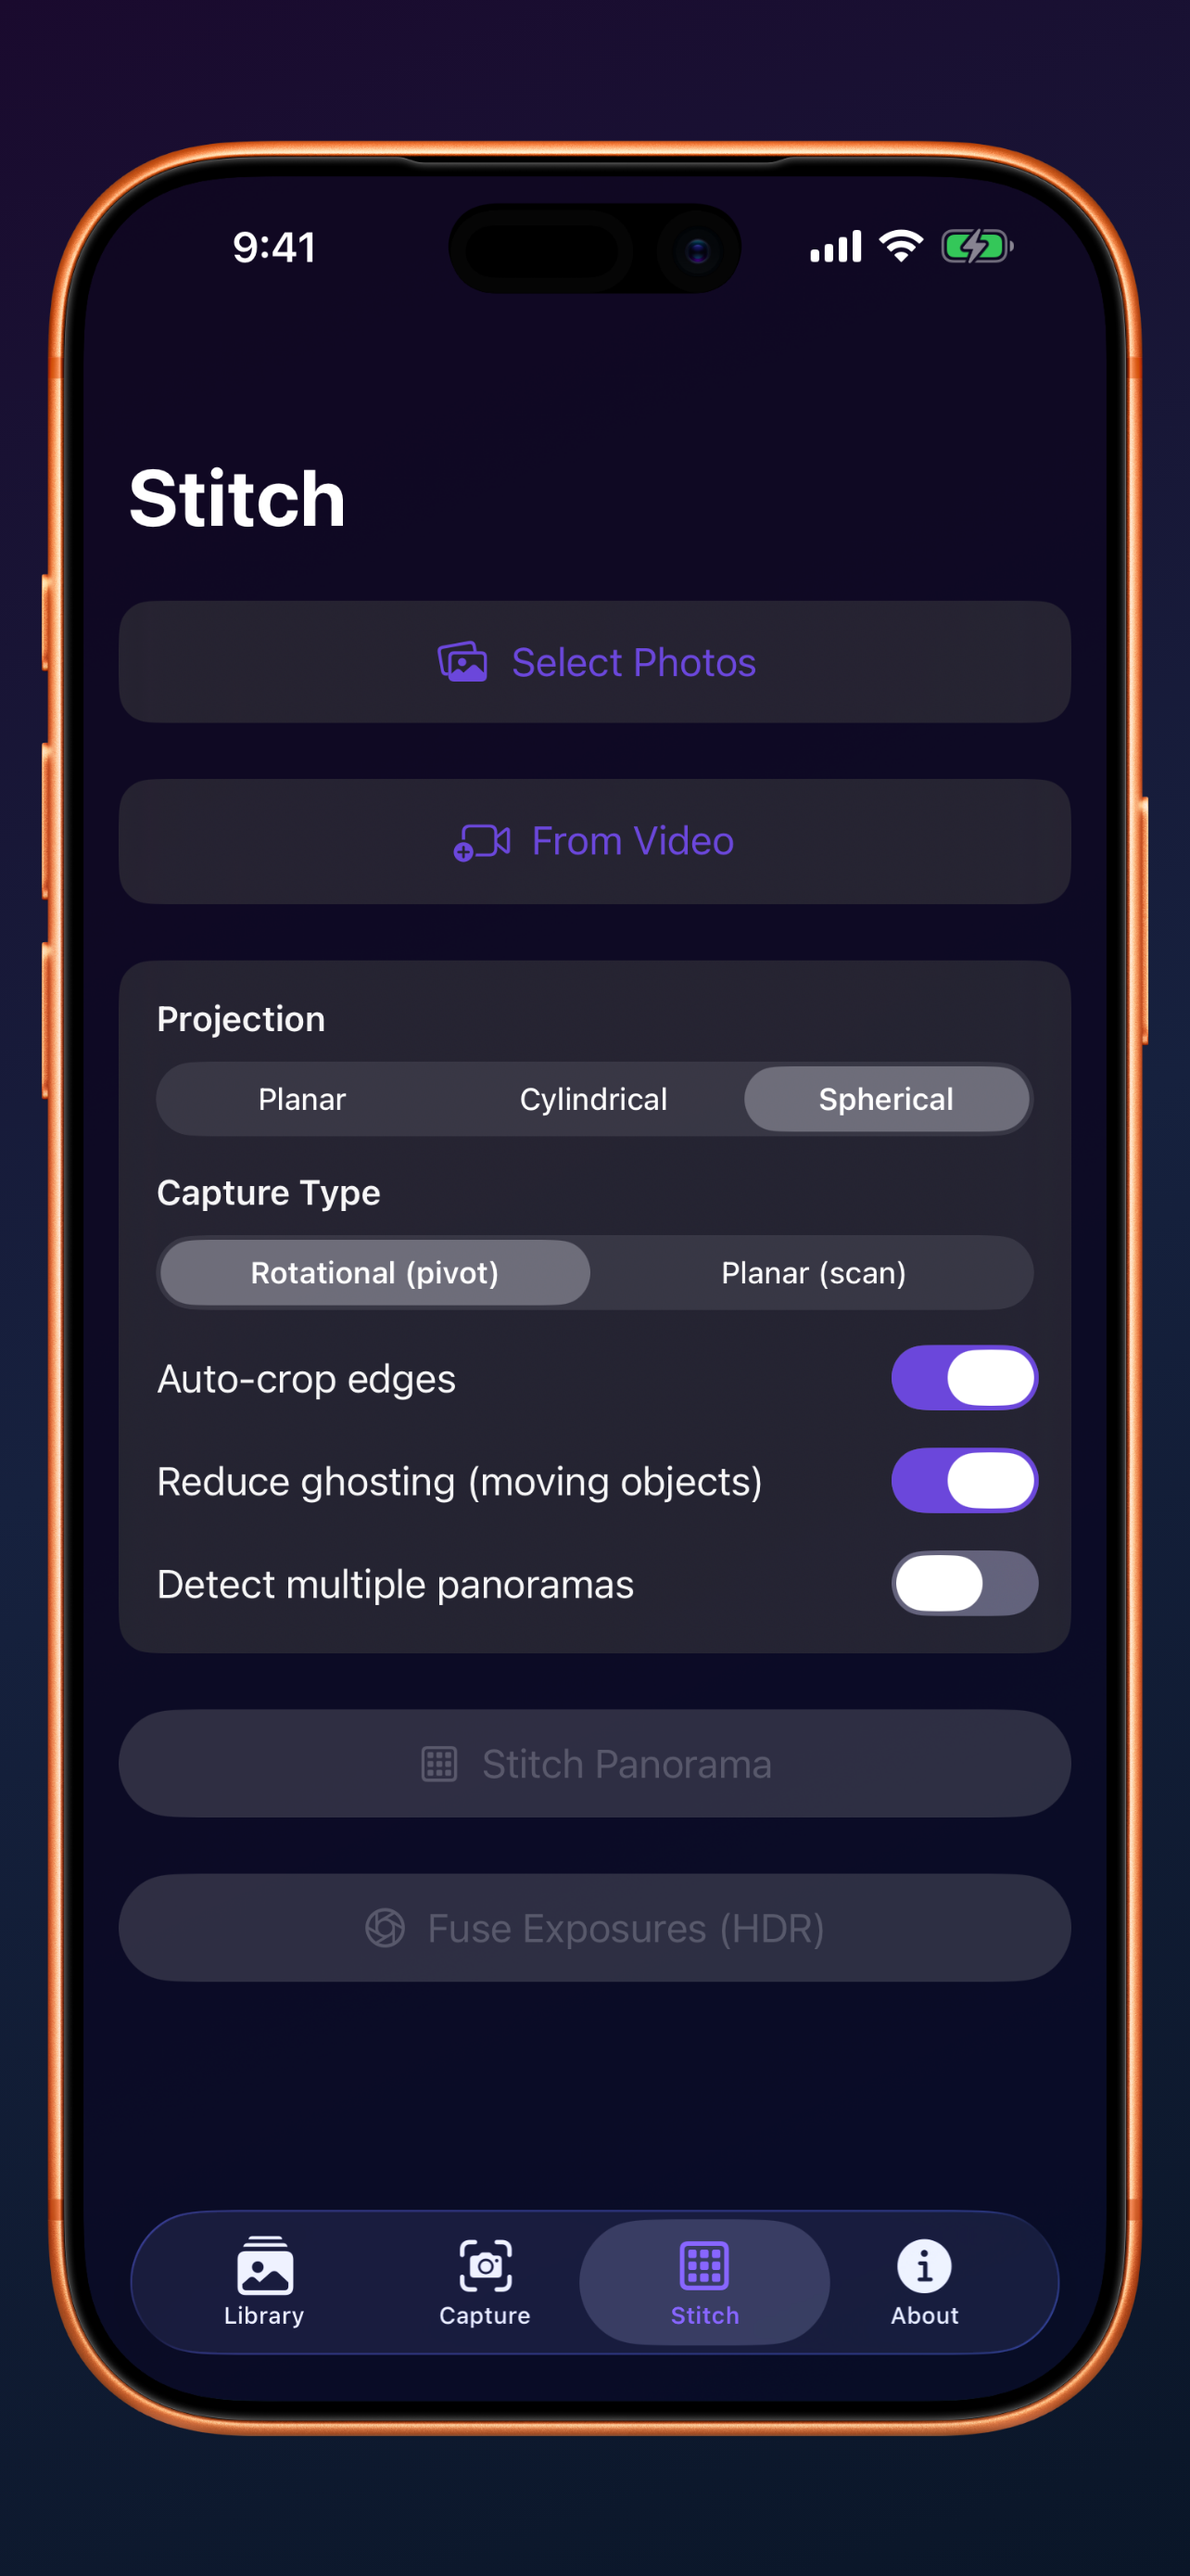
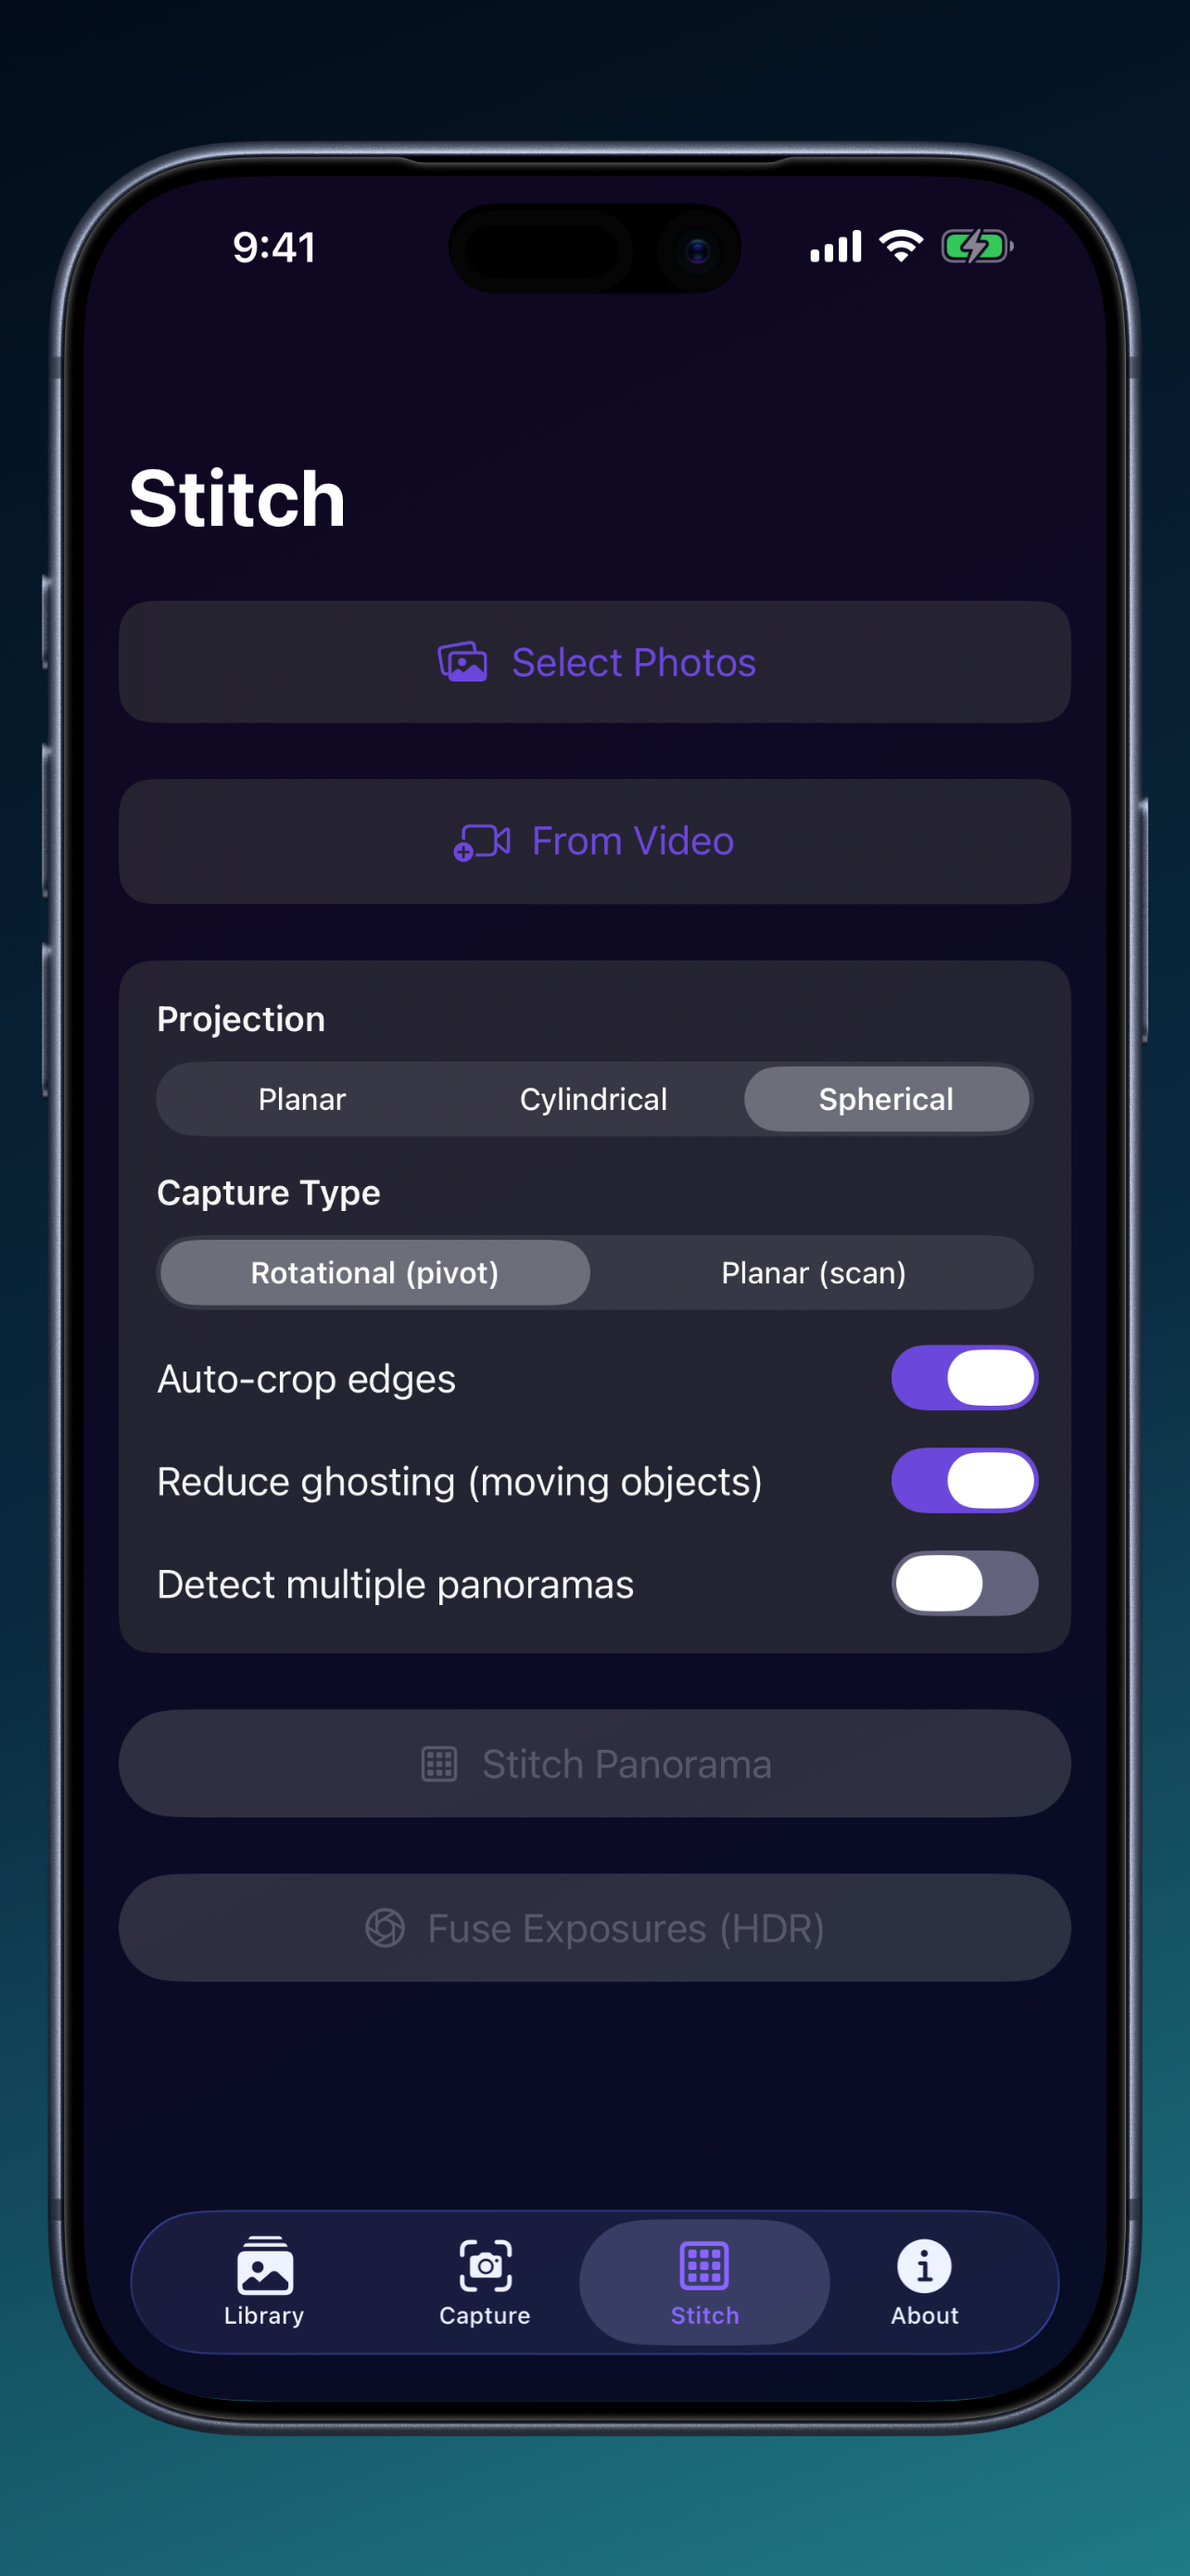
Apps page: add Zap card, order Zap→Tri-Add→Ridgeshot; refresh themed screenshots
- /apps grid: insert Zap, sequence Zap → Tri-Add → Ridgeshot (Pano Owl stays before Sami)
- projects.json: mark Tri-Add updated (2026-06) while keeping its original release date
- Refresh tri-add/pano-owl/enter-space/ari-helper/pinline galleries with new unique
  per-app Monkr themes (varied device frame colors)
- Remove stray iCloud conflict copy

diff --git a/apps/index.html b/apps/index.html
@@ -338,11 +338,27 @@
       <p class="apps-subtitle">Discover beautiful and powerful iOS applications designed to enhance your life</p>
 
       <div class="apps-grid">
+        <!-- Zap -->
+        <a href="zap/" class="app-card" data-app="zap">
+          <div class="app-icon"><img src="zap/assets/images/icon.png" alt="Zap App Icon"></div>
+          <h2 class="app-name">Zap</h2>
+          <p class="app-tagline">Electric trivia duels</p>
+          <span class="app-cta">Learn More →</span>
+        </a>
+
         <!-- Tri-Add -->
         <a href="tri-add/" class="app-card" data-app="tri-add">
           <div class="app-icon"><img src="tri-add/assets/images/app-icon.png" alt="Tri-Add App Icon"></div>
           <h2 class="app-name">Tri-Add</h2>
           <p class="app-tagline">The color mixing game · a 2014 classic, relaunched</p>
+          <span class="app-cta">Learn More →</span>
+        </a>
+
+        <!-- Ridgeshot -->
+        <a href="ridgeshot/" class="app-card" data-app="ridgeshot">
+          <div class="app-icon"><img src="ridgeshot/assets/images/app-icon.png" alt="Ridgeshot App Icon"></div>
+          <h2 class="app-name">Ridgeshot</h2>
+          <p class="app-tagline">Long-range rifle marksman</p>
           <span class="app-cta">Learn More →</span>
         </a>
 
@@ -375,14 +391,6 @@
           <div class="app-icon"><img src="ari-helper/assets/images/icon.png" alt="Ari Helper App Icon"></div>
           <h2 class="app-name">Ari Helper</h2>
           <p class="app-tagline">All-in-one AI chat app</p>
-          <span class="app-cta">Learn More →</span>
-        </a>
-
-        <!-- Ridgeshot -->
-        <a href="ridgeshot/" class="app-card" data-app="ridgeshot">
-          <div class="app-icon"><img src="ridgeshot/assets/images/app-icon.png" alt="Ridgeshot App Icon"></div>
-          <h2 class="app-name">Ridgeshot</h2>
-          <p class="app-tagline">Long-range rifle marksman</p>
           <span class="app-cta">Learn More →</span>
         </a>
 
